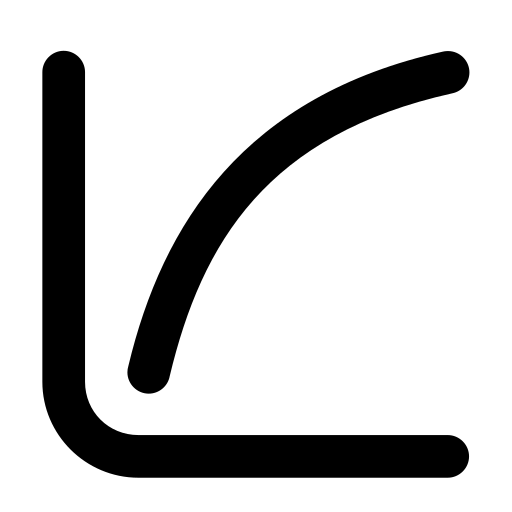
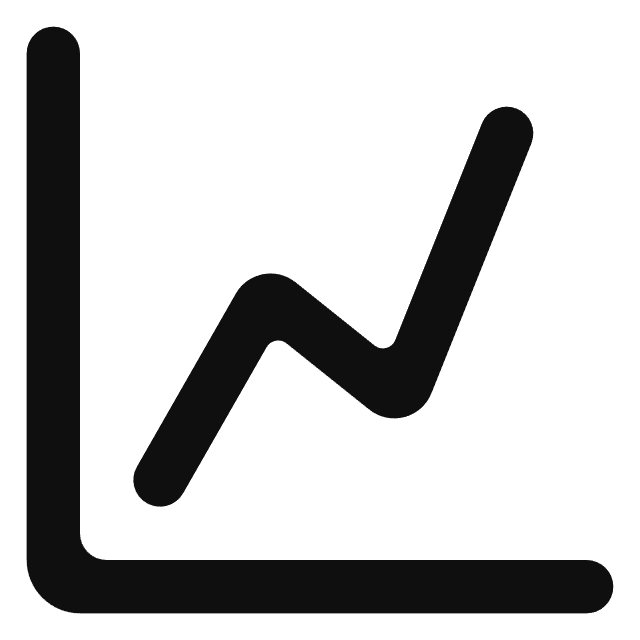
ajout des chart png en blanc, ajout du système d'étape

Changed region(s): [[0.0312, 0.0312, 0.9688, 0.9688]]

diff --git a/FRONT/SAE401/src/pages/graphCreation.jsx b/FRONT/SAE401/src/pages/graphCreation.jsx
@@ -9,18 +9,18 @@ import BtnExport from "../components/creationexport/btnExport";
 const GraphCreation = () => {
     // liste des types de graphiques
     const graphType = [
-        { type: "Histogramme", icon: "./images/graphicons/histogram.png" },
-        { type: "Camembert", icon: "./images/graphicons/camembert.png" },
-        { type: "Courbe", icon: "./images/graphicons/courbe.png" },
+        { type: "Histogramme", icon: "./images/graphicons/histogram_b.png" },
+        { type: "Camembert", icon: "./images/graphicons/camembert_b.png" },
+        { type: "Courbe", icon: "./images/graphicons/courbe_b.png" },
     ];
 
-    const [activeGraphType, setActiveGraphType] = useState(graphType[0]); // utilise le premier graph : historigramme
+    const [activeGraphType, setActiveGraphType] = useState(null); // Changé à null pour forcer le choix
 
     // titres
     const titres = ["Type de visualisation", "Données", "Filtres"];
 
     // liste tableaux metriques
-    const metrics1 = [
+    const Metriquess1 = [
         { type: "Nombre de logements", value: "nb_logements" },
         { type: "Loyer moyen au m²", value: "loyer_moyen" },
         { type: "Surface moyenne", value: "surface_moyenne" },
@@ -40,34 +40,33 @@ const GraphCreation = () => {
         { type: "2023", value: "2023" },
     ];
 
-    const [selectedYear1, setSelectedYear1] = useState("");
-    const [selectedYear2, setSelectedYear2] = useState("");
-    const year2Ref = useRef(null); // Réf pour cibler le second sélecteur d'année
+    const [selectedMetriques, setSelectedMetriques] = useState("");
+    const [selectedAxe, setSelectedAxe] = useState("");
 
-    const handleYear1Change = (e) => {
+    const [selectedY1, setSelectedY1] = useState("");
+    const [selectedY2, setSelectedY2] = useState("");
+    const Y2Ref = useRef(null); // Réf pour cibler le second sélecteur d'année
+
+    const handleY1Change = (e) => {
         const value = e.target.value;
-        setSelectedYear1(value);
-        if (selectedYear2 && value > selectedYear2) {
-            setSelectedYear2("");
+        setSelectedY1(value);
+        if (selectedY2 && value > selectedY2) {
+            setSelectedY2("");
         }
     };
 
     // Fonction pour remettre à zéro les deux années sélectionnées 
-    const handleResetYears = () => {
-        setSelectedYear1("");
-        setSelectedYear2("");
+    const handleResetYs = () => {
+        setSelectedY1("");
+        setSelectedY2("");
     };
 
     // Effet pour donner le focus au second sélecteur dès que la première année est choisie = focus : élément en attente d'action
     useEffect(() => {
-        if (selectedYear1 && !selectedYear2) {
-            year2Ref.current?.focus();
+        if (selectedY1 && !selectedY2) {
+            Y2Ref.current?.focus();
         }
-    }, [selectedYear1]);
-
-
-
-
+    }, [selectedY1]);
 
     // filtre région
 
@@ -95,6 +94,25 @@ const GraphCreation = () => {
         setSelectedRegion(value);
     };
 
+    const etape1 = useRef(null);
+
+    const etape2 = useRef(null);
+    const etape3 = useRef(null);
+    const etape4 = useRef(null);
+
+    // Vérif des étapes
+    const isEtape1Complete = activeGraphType !== null;
+    const isEtape2Complete = isEtape1Complete && selectedMetriques !== "" && selectedAxe !== "";
+    // Note: selectedRegion !== "" car "Toute la France" a maintenant une valeur "all"
+    const isEtape3Complete = isEtape2Complete && selectedY1 !== "" && selectedY2 !== "" && selectedRegion !== "";
+    const isEtape4Complete = isEtape3Complete;
+
+    // Helper pour les classes CSS des étapes
+    const suivietapes = (isPreviousComplete) => {
+        if (!isPreviousComplete) return "p-4 bg-[#111822]/20 rounded-lg opacity-30 pointer-events-none grayscale transition-all duration-500";
+        return "p-4 bg-[#111822] rounded-lg transition-all duration-500";
+    };
+
     return (
         <div className="h-screen flex flex-col overflow-hidden bg-[#111822]">
             <Navbar />
@@ -111,123 +129,147 @@ const GraphCreation = () => {
                                 </p>
                             </div>
 
-                            {/* choix du graphe */}
-                            <div className="space-y-4">
-                                <div className="flex items-center gap-3">
-                                    <span className="flex items-center justify-center w-8 h-8 rounded-full bg-blue-600 text-white font-bold text-sm">1</span>
-                                    <h2 className="text-white font-semibold uppercase text-xs tracking-wider">{titres[0]}</h2>
-                                </div>
-                                <div className="grid grid-cols-3 gap-3">
-                                    {graphType.map((g) => {
-                                        const isActive = activeGraphType.type === g.type;
-                                        return (
-                                            <button
-                                                key={g.type}
-                                                className={`flex flex-col items-center gap-2 p-3 rounded-xl cursor-pointer transition-all ${isActive
-                                                    ? "bg-[#133479] border-2 border-blue-500"
-                                                    : "bg-[#111822] border-2 border-transparent hover:bg-[#1e293b]"
-                                                    }`}
-                                                onClick={() => setActiveGraphType(g)}
-                                            >
-                                                <img src={g.icon} alt={g.type} className="w-8 h-8 object-contain" />
-                                                <span className="text-[10px] text-white font-medium uppercase text-center">{g.type}</span>
-                                            </button>
-                                        );
-                                    })}
-                                </div>
-                            </div>
+                            <section ref={etape1} id="etape1" className={suivietapes(true)}>
 
-                            {/* Étape 2 : Données */}
-                            <div className="space-y-4">
-                                <div className="flex items-center gap-3">
-                                    <span className="flex items-center justify-center w-8 h-8 rounded-full bg-blue-600 text-white font-bold text-sm">2</span>
-                                    <h2 className="text-white font-semibold uppercase text-xs tracking-wider">{titres[1]}</h2>
-                                </div>
-                                <div className="space-y-3">
-                                    <div className="flex flex-col gap-1.5">
-                                        <label className="text-[10px] text-[#94a3b8] font-bold uppercase">Métrique principale</label>
-                                        <select className="w-full p-2.5 bg-[#111822] text-white rounded-lg border border-[#334155] outline-none cursor-pointer">
-                                            <option value="" hidden>Choisir une métrique</option>
-                                            {metrics1.map((m) => (
-                                                <option key={m.type} value={m.value}>{m.type}</option>
-                                            ))}
-                                        </select>
+                                {/* choix du graphe */}
+                                <div className="space-y-4">
+                                    <div className="flex items-center gap-3">
+                                        <span className="flex items-center justify-center w-8 h-8 rounded-full bg-blue-600 text-white font-bold text-sm">1</span>
+                                        <h2 className="text-white font-semibold uppercase text-xs tracking-wider">{titres[0]}</h2>
                                     </div>
-                                    <div className="flex flex-col gap-1.5">
-                                        <label className="text-[10px] text-[#94a3b8] font-bold uppercase">Axe de comparaison</label>
-                                        <select className="w-full p-2.5 bg-[#111822] text-white rounded-lg border border-[#334155] outline-none cursor-pointer">
-                                            <option value="" hidden>Choisir une dimension</option>
-                                            {axecomparaison.map((c) => (
-                                                <option key={c.type} value={c.value}>{c.type}</option>
-                                            ))}
-                                        </select>
+                                    <div className="grid grid-cols-3 gap-3">
+                                        {graphType.map((g) => {
+                                            const isActive = activeGraphType?.type === g.type; // Vérifie si le type actif correspond au type du graphique
+                                            return (
+                                                <button
+                                                    key={g.type}
+                                                    className={`flex flex-col items-center gap-2 p-3 rounded-xl cursor-pointer transition-all border border-white/10 ${isActive
+                                                        ? "bg-[#133479] border-2 border-blue-500"
+                                                        : "bg-[#111822] border-2 border-transparent hover:bg-[#1e293b]"
+                                                        }`}
+                                                    onClick={() => setActiveGraphType(g)}
+                                                >
+                                                    <img src={g.icon} alt={g.type} className="w-8 h-8 object-contain" />
+                                                    <span className="text-[10px] text-white font-medium uppercase text-center">{g.type}</span>
+                                                </button>
+                                            );
+                                        })}
                                     </div>
                                 </div>
-                            </div>
 
-                            {/* Étape 3 : Filtres */}
-                            <div className="space-y-4">
-                                <div className="flex items-center gap-3">
-                                    <span className="flex items-center justify-center w-8 h-8 rounded-full bg-blue-600 text-white font-bold text-sm">3</span>
-                                    <h2 className="text-white font-semibold uppercase text-xs tracking-wider">{titres[2]}</h2>
-                                </div>
+                            </section>
 
-                                <div className="bg-[#111822]/40 p-4 rounded-xl border border-[#334155] space-y-4">
-                                    <div className="flex flex-col gap-3">
-                                        <div className="flex items-center justify-between">
-                                            <label className="text-[10px] text-[#94a3b8] font-bold uppercase">Période</label>
-                                            {(selectedYear1 || selectedYear2) && (
-                                                <button onClick={handleResetYears} className="text-[10px] text-blue-400 hover:underline cursor-pointer">Réinitialiser</button>
-                                            )}
-                                        </div>
-                                        <div className="flex items-center gap-2">
+                            <section ref={etape2} id="etape2" className={suivietapes(isEtape1Complete)}>
+
+                                {/* Étape 2 : Données */}
+                                <div className="space-y-4">
+                                    <div className="flex items-center gap-3">
+                                        <span className="flex items-center justify-center w-8 h-8 rounded-full bg-blue-600 text-white font-bold text-sm">2</span>
+                                        <h2 className="text-white font-semibold uppercase text-xs tracking-wider">{titres[1]}</h2>
+                                    </div>
+                                    <div className="space-y-3">
+                                        <div className="flex flex-col gap-1.5">
+                                            <label className="text-[10px] text-[#94a3b8] font-bold uppercase">Métrique principale</label>
                                             <select
-                                                className="flex-1 p-2 bg-[#111822] text-white text-xs rounded border border-[#334155] outline-none cursor-pointer"
-                                                value={selectedYear1}
-                                                onChange={handleYear1Change}
+                                                value={selectedMetriques}
+                                                onChange={(e) => setSelectedMetriques(e.target.value)}
+                                                className="w-full p-2.5 bg-[#111822] text-white rounded-lg border border-[#334155] outline-none cursor-pointer"
                                             >
-                                                <option value="" hidden>De...</option>
-                                                {filtres.map((f) => (
-                                                    <option key={f.type} value={f.value}>{f.type}</option>
+                                                <option value="" hidden>Choisir une métrique</option>
+                                                {Metriquess1.map((m) => (
+                                                    <option key={m.type} value={m.value}>{m.type}</option>
                                                 ))}
                                             </select>
-                                            <span className="text-blue-500">→</span>
+                                        </div>
+                                        <div className="flex flex-col gap-1.5">
+                                            <label className="text-[10px] text-[#94a3b8] font-bold uppercase">Axe de comparaison</label>
                                             <select
-                                                ref={year2Ref}
-                                                className="flex-1 p-2 bg-[#111822] text-white text-xs rounded border border-[#334155] outline-none cursor-pointer disabled:opacity-30"
-                                                value={selectedYear2}
-                                                onChange={(e) => setSelectedYear2(e.target.value)}
-                                                disabled={!selectedYear1}
+                                                value={selectedAxe}
+                                                onChange={(e) => setSelectedAxe(e.target.value)}
+                                                className="w-full p-2.5 bg-[#111822] text-white rounded-lg border border-[#334155] outline-none cursor-pointer"
                                             >
-                                                <option value="" hidden>{selectedYear1 ? "À..." : "---"}</option>
-                                                {filtres
-                                                    .filter((f) => !selectedYear1 || parseInt(f.value) >= parseInt(selectedYear1))
-                                                    .map((f) => (
-                                                        <option key={f.type} value={f.value}>{f.type}</option>
-                                                    ))}
+                                                <option value="" hidden>Choisir une dimension</option>
+                                                {axecomparaison.map((c) => (
+                                                    <option key={c.type} value={c.value}>{c.type}</option>
+                                                ))}
                                             </select>
                                         </div>
                                     </div>
+                                </div>
 
-                                    <div className="flex flex-col gap-1.5">
-                                        <label className="text-[10px] text-[#94a3b8] font-bold uppercase">Géographie</label>
-                                        <select
-                                            className="w-full p-2 bg-[#111822] text-white text-xs rounded border border-[#334155] outline-none cursor-pointer"
-                                            value={selectedRegion}
-                                            onChange={handleRegionChange}
-                                        >
-                                            <option value="">Toute la France</option>
-                                            {regions.map((r) => (
-                                                <option key={r.type} value={r.value}>{r.type}</option>
-                                            ))}
-                                        </select>
+                            </section>
+
+                            <section ref={etape3} id="etape3" className={suivietapes(isEtape2Complete)}>
+
+                                {/* Étape 3 : Filtres */}
+                                <div className="space-y-4">
+                                    <div className="flex items-center gap-3">
+                                        <span className="flex items-center justify-center w-8 h-8 rounded-full bg-blue-600 text-white font-bold text-sm">3</span>
+                                        <h2 className="text-white font-semibold uppercase text-xs tracking-wider">{titres[2]}</h2>
+                                    </div>
+
+                                    <div className="bg-[#111822]/40 p-4 rounded-xl border border-[#334155] space-y-4">
+                                        <div className="flex flex-col gap-3">
+                                            <div className="flex items-center justify-between">
+                                                <label className="text-[10px] text-[#94a3b8] font-bold uppercase">Période</label>
+                                                {(selectedY1 || selectedY2) && (
+                                                    <button onClick={handleResetYs} className="text-[10px] text-blue-400 hover:underline cursor-pointer">Réinitialiser</button>
+                                                )}
+                                            </div>
+                                            <div className="flex items-center gap-2">
+                                                <select
+                                                    className="flex-1 p-2 bg-[#111822] text-white text-xs rounded border border-[#334155] outline-none cursor-pointer"
+                                                    value={selectedY1}
+                                                    onChange={handleY1Change}
+                                                >
+                                                    <option value="" hidden>De...</option>
+                                                    {filtres.map((f) => (
+                                                        <option key={f.type} value={f.value}>{f.type}</option>
+                                                    ))}
+                                                </select>
+                                                <span className="text-blue-500">→</span>
+                                                <select
+                                                    ref={Y2Ref}
+                                                    className="flex-1 p-2 bg-[#111822] text-white text-xs rounded border border-[#334155] outline-none cursor-pointer disabled:opacity-30"
+                                                    value={selectedY2}
+                                                    onChange={(e) => setSelectedY2(e.target.value)}
+                                                    disabled={!selectedY1}
+                                                >
+                                                    <option value="" hidden>{selectedY1 ? "À..." : "---"}</option>
+                                                    {filtres
+                                                        .filter((f) => !selectedY1 || parseInt(f.value) >= parseInt(selectedY1))
+                                                        .map((f) => (
+                                                            <option key={f.type} value={f.value}>{f.type}</option>
+                                                        ))}
+                                                </select>
+                                            </div>
+                                        </div>
+
+                                        <div className="flex flex-col gap-1.5">
+                                            <label className="text-[10px] text-[#94a3b8] font-bold uppercase">Géographie</label>
+                                            <select
+                                                className="w-full p-2 bg-[#111822] text-white text-xs rounded border border-[#334155] outline-none cursor-pointer"
+                                                value={selectedRegion}
+                                                onChange={handleRegionChange}
+                                            >
+                                                <option value="" hidden>Choisir une zone...</option>
+                                                <option value="france">Toute la France</option>
+                                                {regions.map((r) => (
+                                                    <option key={r.type} value={r.value}>{r.type}</option>
+                                                ))}
+                                            </select>
+                                        </div>
                                     </div>
                                 </div>
-                            </div>
-                        </div>
 
-                        {/* Export fixe en bas du sidebar */}
-                        <BtnExport chartRef={chartRef} />
+                            </section>
+
+
+                            {/* Export fixe en bas */}
+                            <span ref={etape4} className={isEtape4Complete ? "opacity-100 pointer-events-auto" : "opacity-30 pointer-events-none grayscale"}>
+                                <BtnExport chartRef={chartRef} />
+                            </span>
+                        </div>
                     </div>
 
                     <GraphChart ref={chartRef} activeGraphType={activeGraphType} />

diff --git a/FRONT/SAE401/src/components/creationexport/graphChart.jsx b/FRONT/SAE401/src/components/creationexport/graphChart.jsx
@@ -16,10 +16,9 @@ const GraphChart = forwardRef(({ activeGraphType }, ref) => {
         }
     }));
 
-    // le graph
-    // Initialisation et mise à jour du graphique
+    // Initialisation 
     useEffect(() => {
-        if (chartRef.current) {
+        if (chartRef.current && activeGraphType) {
             // Détruire l'instance existante avant d'en créer une nouvelle
             if (chartItem.current) {
                 chartItem.current.destroy();
@@ -73,8 +72,21 @@ const GraphChart = forwardRef(({ activeGraphType }, ref) => {
     }, [activeGraphType]);
 
     return (
-        <div className="col-span-2 bg-[#111822] relative p-8">
-            <canvas ref={chartRef} id="graph" className="w-auto h-auto"></canvas>
+        <div className="col-span-2 bg-[#111822] p-8 h-full flex flex-col items-center justify-center">
+            {activeGraphType ? (
+                <div className="flex-1 relative min-h-0 w-full">
+                    <canvas ref={chartRef} id="graph"></canvas>
+                </div>
+            ) : (
+                <div className="text-center space-y-4">
+                    <div className="w-16 h-16 bg-blue-500/10 rounded-full flex items-center justify-center mx-auto">
+                        <svg className="w-8 h-8 text-blue-500 animate-pulse" fill="none" viewBox="0 0 24 24" stroke="currentColor">
+                            <path strokeLinecap="round" strokeLinejoin="round" strokeWidth={2} d="M9 19v-6a2 2 0 00-2-2H5a2 2 0 00-2 2v6a2 2 0 002 2h2a2 2 0 002-2zm0 0V9a2 2 0 012-2h2a2 2 0 012 2v10m-6 0a2 2 0 002 2h2a2 2 0 002-2m0 0V5a2 2 0 012-2h2a2 2 0 012 2v14a2 2 0 01-2 2h-2a2 2 0 01-2-2z" />
+                        </svg>
+                    </div>
+                    <p className="text-[#94a3b8] font-medium italic">Veuillez choisir un type de graphique pour commencer la visualisation</p>
+                </div>
+            )}
         </div>
     );
 });
